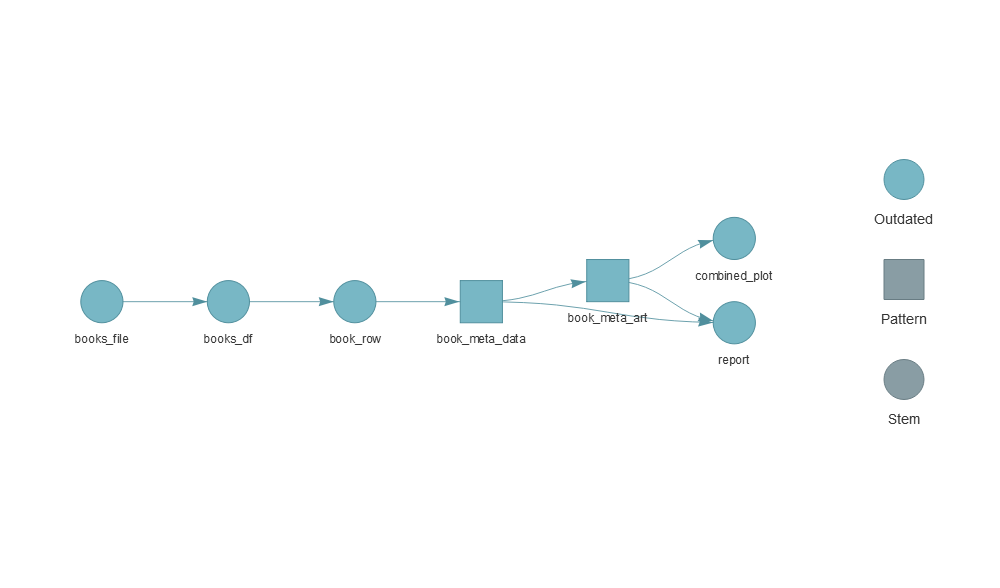
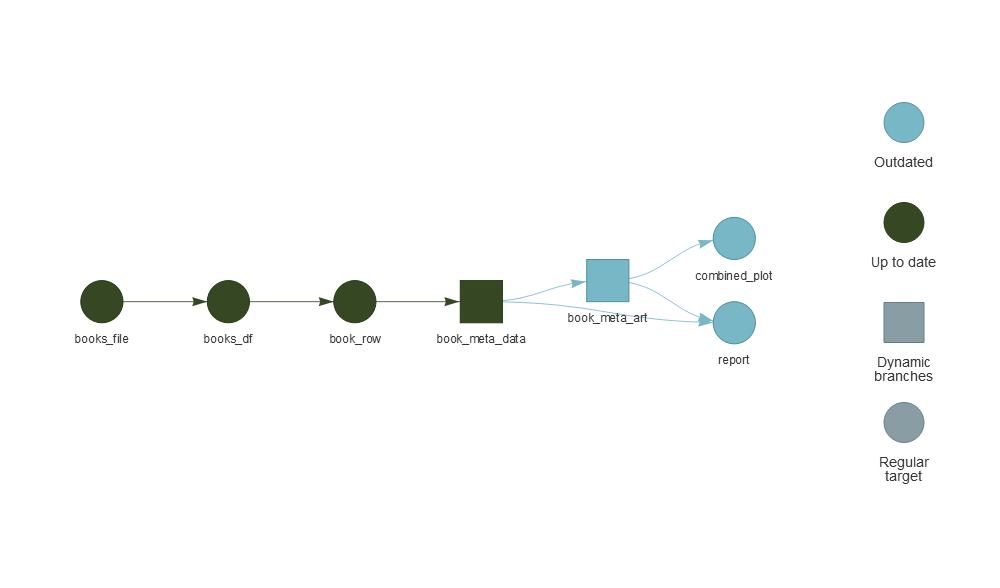
update README

diff --git a/README.md b/README.md
@@ -58,15 +58,15 @@ steps may be affected by altering function code or changing data inputs.
 
 ### Targets Only
 
-    #> Warning message:
-    #> package 'tarchetypes' was built under R version 4.4.1 
+    #> + book_meta_data declared [8 branches]
+    #> + book_meta_art declared [8 branches]
 
 ![](README_files/figure-gfm/unnamed-chunk-3-1.png)<!-- -->
 
 ### Functions and Targets
 
-    #> Warning message:
-    #> package 'tarchetypes' was built under R version 4.4.1 
+    #> + book_meta_data declared [8 branches]
+    #> + book_meta_art declared [8 branches]
 
 ![](README_files/figure-gfm/unnamed-chunk-4-1.png)<!-- -->
 
@@ -130,7 +130,7 @@ targets::tar_load(name_target)## load name_target into environemnt
 - [Brilliant Blog unfortunately Blocked on CSO
   Network](https://blog.djnavarro.net/)
 
-# CSO Advice (Ignore unless Considering implementing a project using Targets)
+# (Ignore unless Considering implementing a project using Targets)
 
 - The normal target setup breaks when having a project setup on the file
   drive network while using the workbench server. Targets is fine when
@@ -143,10 +143,8 @@ targets::tar_load(name_target)## load name_target into environemnt
   Need a way to explicitly wait for data to be available before reading
   from it. After scouring targets documentation [CAS(content-addressable
   storage)](https://docs.ropensci.org/targets/reference/tar_repository_cas.html)
-  proved a solution. If implementing this approach contact
-  (<Cathal.Byrne@cso.ie>) to explain some caveats/complications which
-  arise. In short it augments and or replaces the  \_targets objects
-  system.
+  proved a solution. In short it augments and or replaces the
+   \_targets objects system.
 
 The **\_targets.R** script changes slightly where a global option is
 changed. The repository/storage used.
